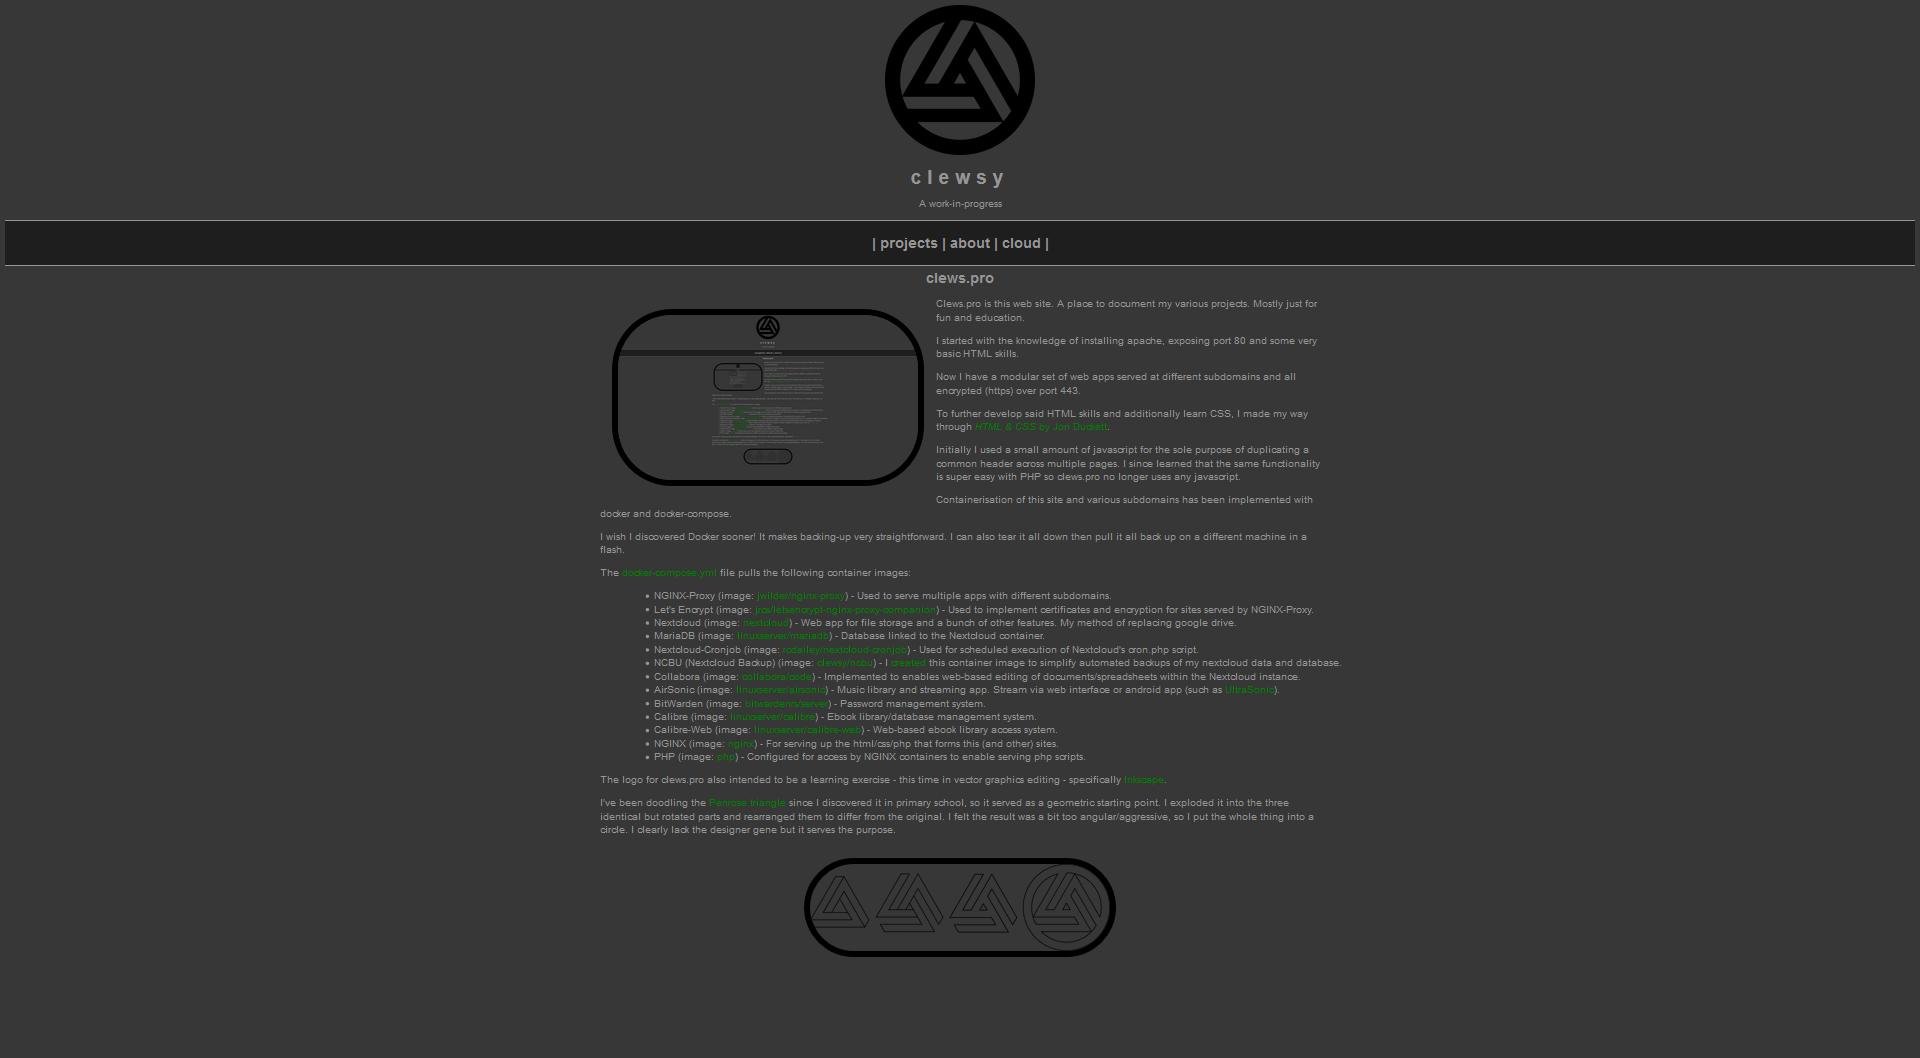
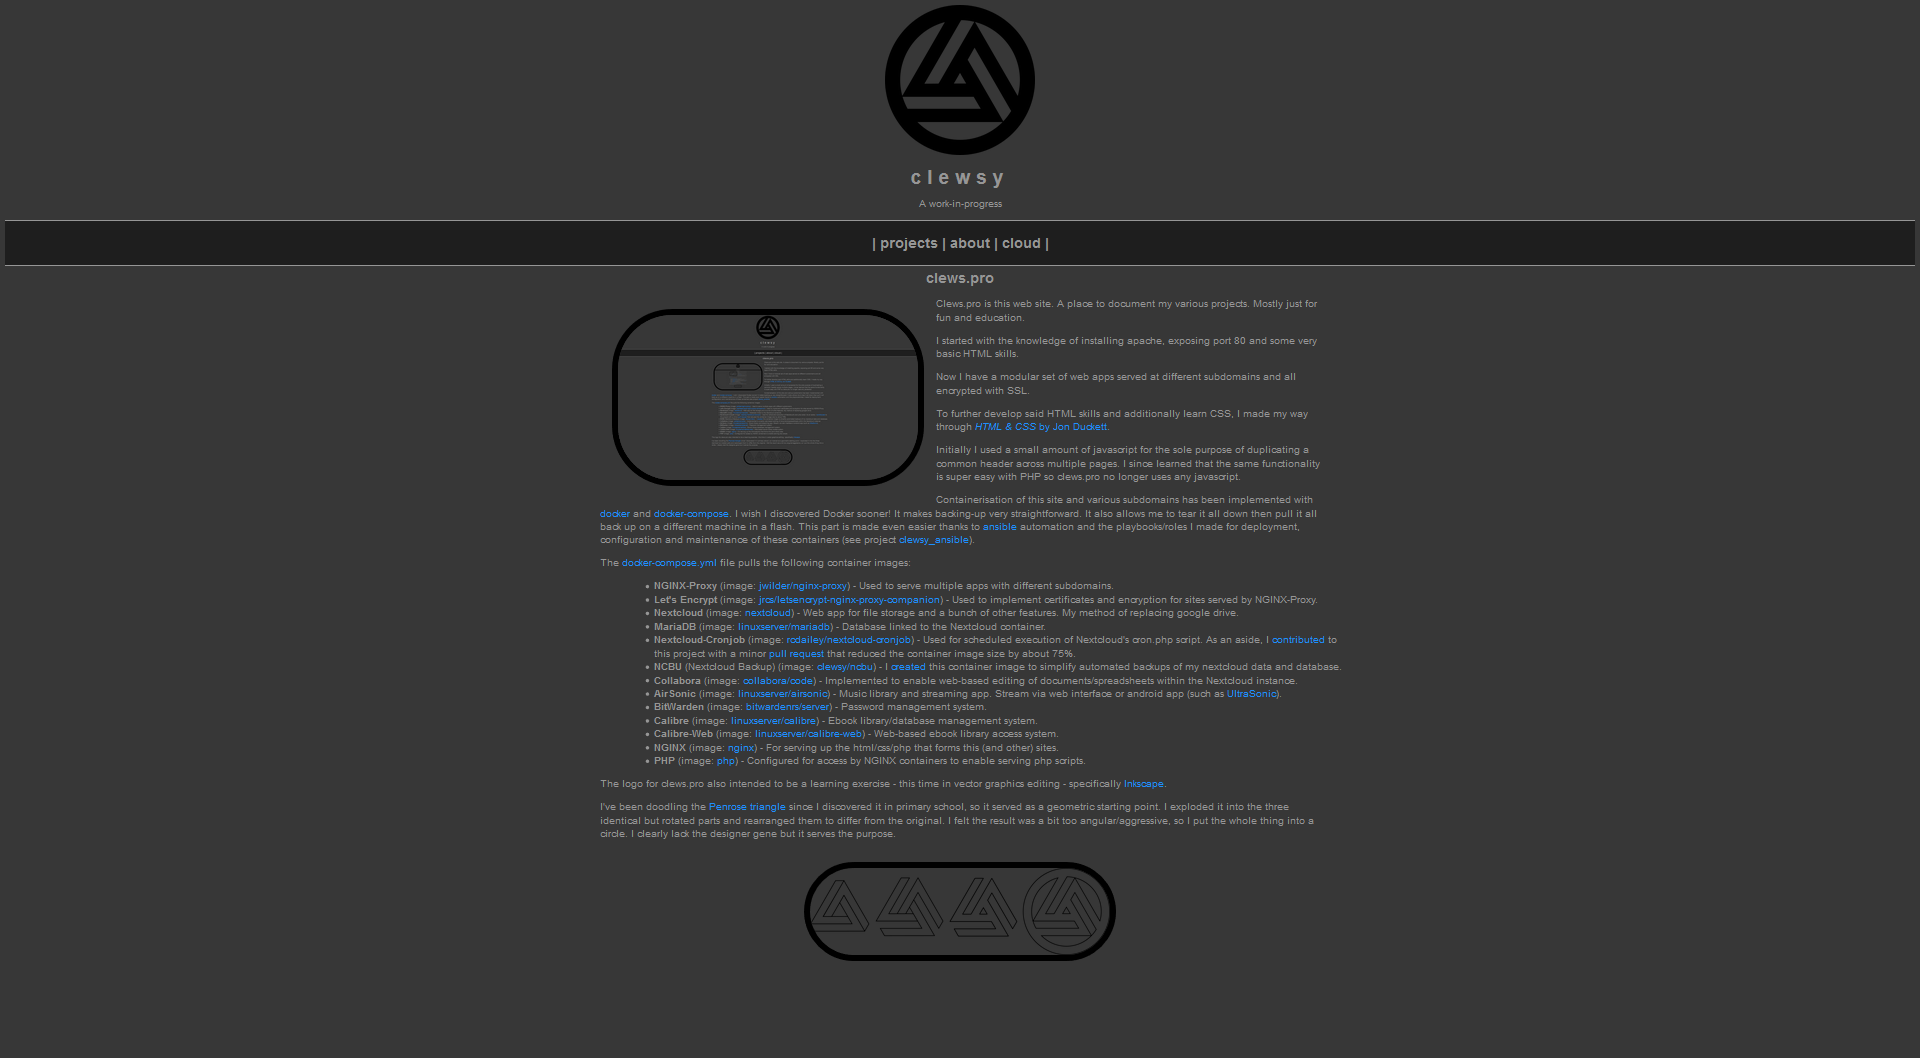
Updates.
Former-commit-id: b97078c4612152241fea4e5f2e164df9d1b5c7c2

Changed region(s): [[0.3125, 0.4679, 0.6875, 0.9357], [0.5, 0.3431, 0.5625, 0.3743], [0.375, 0.3743, 0.4062, 0.4055]]

diff --git a/clews.pro/html/projects/clews.php b/clews.pro/html/projects/clews.php
@@ -11,26 +11,25 @@
 			<a href="images/clews_01.png"><img class="photo align-left" src="images/clews_01.png" alt="Whoah." /></a>
 			<p>Clews.pro is this web site.  A place to document my various projects.  Mostly just for fun and education.</p>
 			<p>I started with the knowledge of installing apache, exposing port 80 and some very basic HTML skills.</p>
-			<p>Now I have a modular set of web apps served at different subdomains and all encrypted (https) over port 443.</p>
+			<p>Now I have a modular set of web apps served at different subdomains and all encrypted with SSL.</p>
 			<p>To further develop said HTML skills and additionally learn CSS, I made my way through <a href="http://www.htmlandcssbook.com/"><i>HTML & CSS</i> by Jon Duckett</a>.</p>
 			<p>Initially I used a small amount of javascript for the sole purpose of duplicating a common header across multiple pages.  I since learned that the same functionality is super easy with PHP so clews.pro no longer uses any javascript.</p>
-			<p>Containerisation of this site and various subdomains has been implemented with docker and docker-compose.</p>
-			<p>I wish I discovered Docker sooner!  It makes backing-up very straightforward.  I can also tear it all down then pull it all back up on a different machine in a flash.</p>
-			<p>The <a href="https://gitlab.com/clewsy/clews.pro">docker-compose.yml</a> file pulls the following container images:</p>
+			<p>Containerisation of this site and various subdomains has been implemented with <a href="https://docs.docker.com/">docker</a> and <a href="https://docs.docker.com/compose/">docker-compose</a>.  I wish I discovered Docker sooner!  It makes backing-up very straightforward.  It also allows me to tear it all down then pull it all back up on a different machine in a flash.  This part is made even easier thanks to <a href="https://docs.ansible.com/">ansible</a> automation and the playbooks/roles I made for deployment, configuration and maintenance of these containers (see project <a href="/projects/clewsy_ansible.php">clewsy_ansible</a>).</p>
+			<p>The <a href="https://gitlab.com/clewsy/clews.pro/-/blob/master/docker-compose.yml">docker-compose.yml</a> file pulls the following container images:</p>
 			<ul>
-				<li>NGINX-Proxy (image: <a href="https://hub.docker.com/r/jwilder/nginx-proxy">jwilder/nginx-proxy</a>) - Used to serve multiple apps with different subdomains.</li>
-				<li>Let's Encrypt (image: <a href="https://hub.docker.com/r/jrcs/letsencrypt-nginx-proxy-companion">jrcs/letsencrypt-nginx-proxy-companion</a>) - Used to implement certificates and encryption for sites served by NGINX-Proxy.</li>
-				<li>Nextcloud (image:  <a href="https://hub.docker.com/_/nextcloud">nextcloud</a>) - Web app for file storage and a bunch of other features.  My method of replacing google drive.</li>
-				<li>MariaDB (image:  <a href="https://hub.docker.com/r/linuxserver/mariadb">linuxserver/mariadb</a>) - Database linked to the Nextcloud container.</li>
-				<li>Nextcloud-Cronjob (image:  <a href="https://hub.docker.com/r/rcdailey/nextcloud-cronjob">rcdailey/nextcloud-cronjob</a>) - Used for scheduled execution of Nextcloud's cron.php script.</li>
-				<li>NCBU (Nextcloud Backup) (image:  <a href="https://hub.docker.com/r/clewsy/ncbu">clewsy/ncbu</a>) - I <a href="/projects/ncbu.html">created</a> this container image to simplify automated backups of my nextcloud data and database.</li>
-				<li>Collabora (image:  <a href="https://hub.docker.com/r/collabora/code">collabora/code</a>) - Implemented to enables web-based editing of documents/spreadsheets within the Nextcloud instance.</li>
-				<li>AirSonic (image:  <a href="https://hub.docker.com/r/linuxserver/airsonic">linuxserver/airsonic</a>) - Music library and streaming app.  Stream via web interface or android app (such as <a href="https://www.f-droid.org/en/packages/org.moire.ultrasonic/">UltraSonic</a>).</li>
-				<li>BitWarden (image:  <a href="https://hub.docker.com/r/bitwardenrs/server">bitwardenrs/server</a>) - Password management system.</li>
-				<li>Calibre (image:  <a href="https://hub.docker.com/r/linuxserver/calibre">linuxserver/calibre</a>) - Ebook library/database management system.</li>
-				<li>Calibre-Web (image:  <a href="https://hub.docker.com/r/linuxserver/calibre-web">linuxserver/calibre-web</a>) - Web-based ebook library access system.</li>
-				<li>NGINX (image:  <a href="https://hub.docker.com/_/nginx">nginx</a>) - For serving up the html/css/php that forms this (and other) sites.</li>
-				<li>PHP (image: <a href="https://hub.docker.com/_/php">php</a>) - Configured for access by NGINX containers to enable serving php scripts.</li>
+				<li><b>NGINX-Proxy</b> (image: <a href="https://hub.docker.com/r/jwilder/nginx-proxy">jwilder/nginx-proxy</a>) - Used to serve multiple apps with different subdomains.</li>
+				<li><b>Let's Encrypt</b> (image: <a href="https://hub.docker.com/r/jrcs/letsencrypt-nginx-proxy-companion">jrcs/letsencrypt-nginx-proxy-companion</a>) - Used to implement certificates and encryption for sites served by NGINX-Proxy.</li>
+				<li><b>Nextcloud</b> (image:  <a href="https://hub.docker.com/_/nextcloud">nextcloud</a>) - Web app for file storage and a bunch of other features.  My method of replacing google drive.</li>
+				<li><b>MariaDB</b> (image:  <a href="https://hub.docker.com/r/linuxserver/mariadb">linuxserver/mariadb</a>) - Database linked to the Nextcloud container.</li>
+				<li><b>Nextcloud-Cronjob</b> (image:  <a href="https://hub.docker.com/r/rcdailey/nextcloud-cronjob">rcdailey/nextcloud-cronjob</a>) - Used for scheduled execution of Nextcloud's cron.php script.  As an aside, I <a href="https://github.com/rcdailey/nextcloud-cronjob/commit/e90dcc60d206c21749f8b8bc054e045cb3867446">contributed</a> to this project with a minor <a href="https://github.com/rcdailey/nextcloud-cronjob/pull/4">pull request</a> that reduced the container image size by about 75%.</li>
+				<li><b>NCBU</b> (Nextcloud Backup) (image:  <a href="https://hub.docker.com/r/clewsy/ncbu">clewsy/ncbu</a>) - I <a href="/projects/ncbu.php">created</a> this container image to simplify automated backups of my nextcloud data and database.</li>
+				<li><b>Collabora</b> (image:  <a href="https://hub.docker.com/r/collabora/code">collabora/code</a>) - Implemented to enable web-based editing of documents/spreadsheets within the Nextcloud instance.</li>
+				<li><b>AirSonic</b> (image:  <a href="https://hub.docker.com/r/linuxserver/airsonic">linuxserver/airsonic</a>) - Music library and streaming app.  Stream via web interface or android app (such as <a href="https://www.f-droid.org/en/packages/org.moire.ultrasonic/">UltraSonic</a>).</li>
+				<li><b>BitWarden</b> (image:  <a href="https://hub.docker.com/r/bitwardenrs/server">bitwardenrs/server</a>) - Password management system.</li>
+				<li><b>Calibre</b> (image:  <a href="https://hub.docker.com/r/linuxserver/calibre">linuxserver/calibre</a>) - Ebook library/database management system.</li>
+				<li><b>Calibre-Web</b> (image:  <a href="https://hub.docker.com/r/linuxserver/calibre-web">linuxserver/calibre-web</a>) - Web-based ebook library access system.</li>
+				<li><b>NGINX</b> (image:  <a href="https://hub.docker.com/_/nginx">nginx</a>) - For serving up the html/css/php that forms this (and other) sites.</li>
+				<li><b>PHP</b> (image: <a href="https://hub.docker.com/_/php">php</a>) - Configured for access by NGINX containers to enable serving php scripts.</li>
 			</ul>
 			<p>The logo for clews.pro also intended to be a learning exercise - this time in vector graphics editing - specifically <a href="https://inkscape.org/">Inkscape</a>.</p>
 			<p> I've been doodling the <a href="https://en.wikipedia.org/wiki/Penrose_triangle">Penrose triangle</a> since I discovered it in primary school, so it served as a geometric starting point.  I exploded it into the three identical but rotated parts and rearranged them to differ from the original.  I felt the result was a bit too angular/aggressive, so I put the whole thing into a circle.  I clearly lack the designer gene but it serves the purpose.</p>

diff --git a/clews.pro/html/projects.php b/clews.pro/html/projects.php
@@ -21,7 +21,7 @@
 					<th scope="row"><a href="/projects/clews.php">clews.pro</a></th>
 					<td><a href="/projects/clews.php"><img class="thumbnail" src="/projects/images/clews_01.png" /></a></td>
 					<td>Meta.</td>
-					<td class="date">2020-06-17</td>
+					<td class="date">2020-06-24</td>
 					<td class="links">
 						<a href="https://gitlab.com/clewsy/clews.pro">gitlab</a><br />
 						<a href="/projects.php">Recursion...</a>
